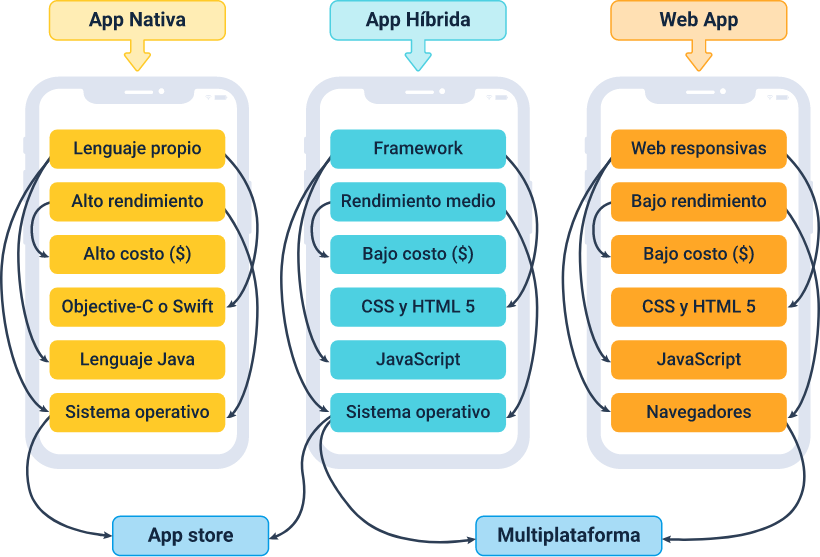
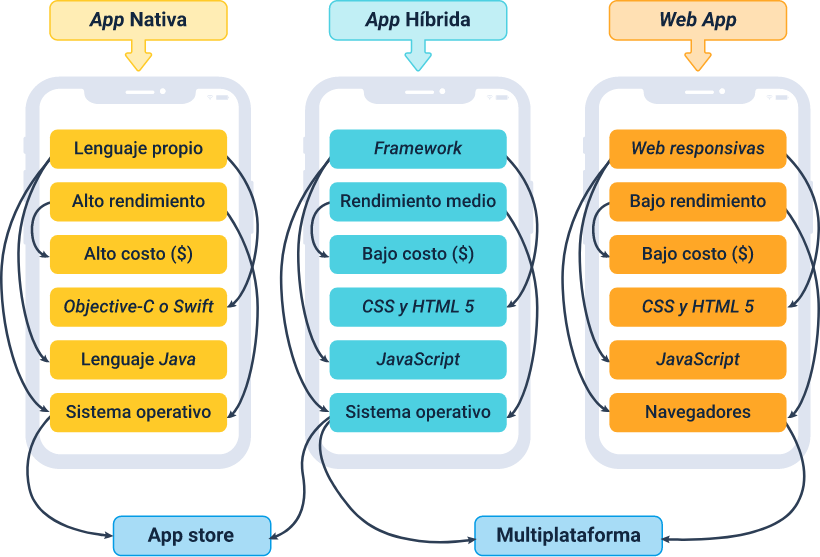
Ajuste de imagenes

diff --git a/src/views/Tema1.vue b/src/views/Tema1.vue
@@ -49,7 +49,7 @@
               p <b>El costo en términos monetarios de desarrollar este tipo de aplicaciones es alto.</b> Según la complejidad de la <i>app</i> a desarrollar, para su creación y mantenimiento, a veces es necesario contar con dos o más equipos de desarrollo especializados en cada uno de los sistemas operativos sobre los que se busca desplegar la aplicación.
 
       .tarjeta.color-light-blue.p-4(titulo="Aplicaciones web")
-        h4 Aplicaciones web
+        h4 Aplicaciones <i>web</i>
         .row.mb-3
           .col-lg-8
             p.mb-3 <b>Las aplicaciones web utilizan navegadores para ejecutarse; se desarrollan utilizando CSS, HTML5, JavaScript.</b> Estas aplicaciones redirigen al usuario a una URL y luego ofrecen la opción de instalar la aplicación o trabajar sobre un navegador web del dispositivo.
